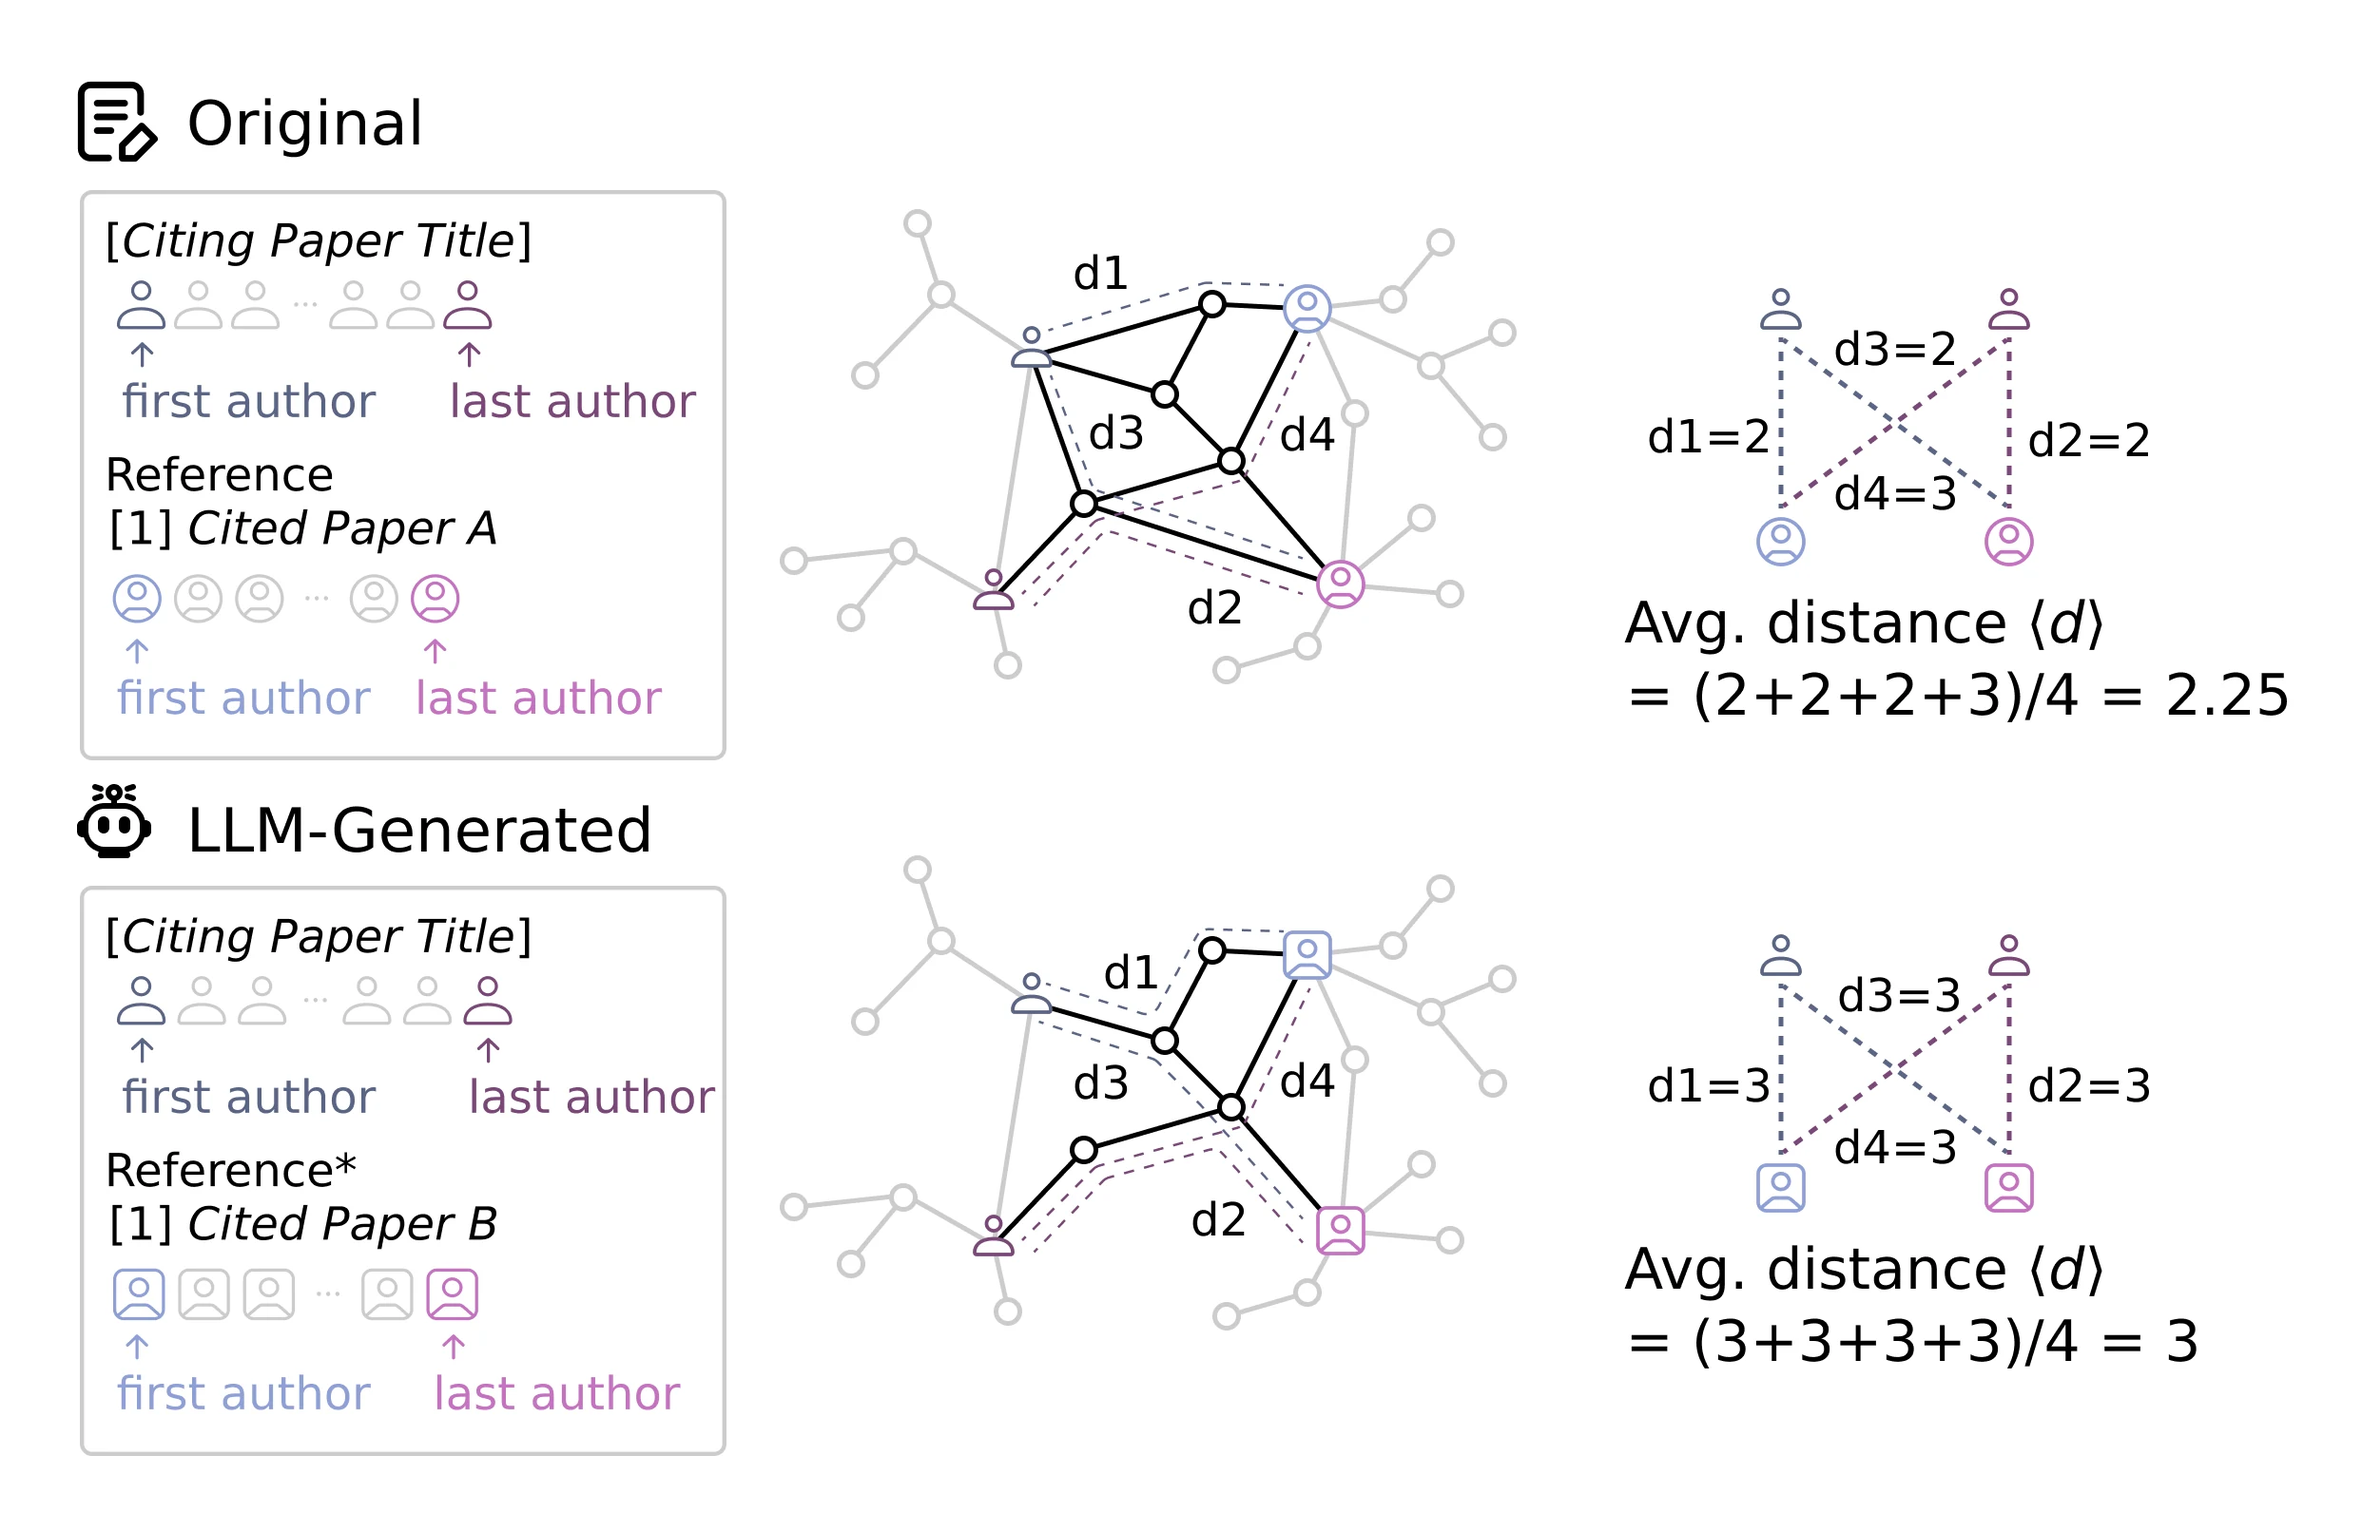
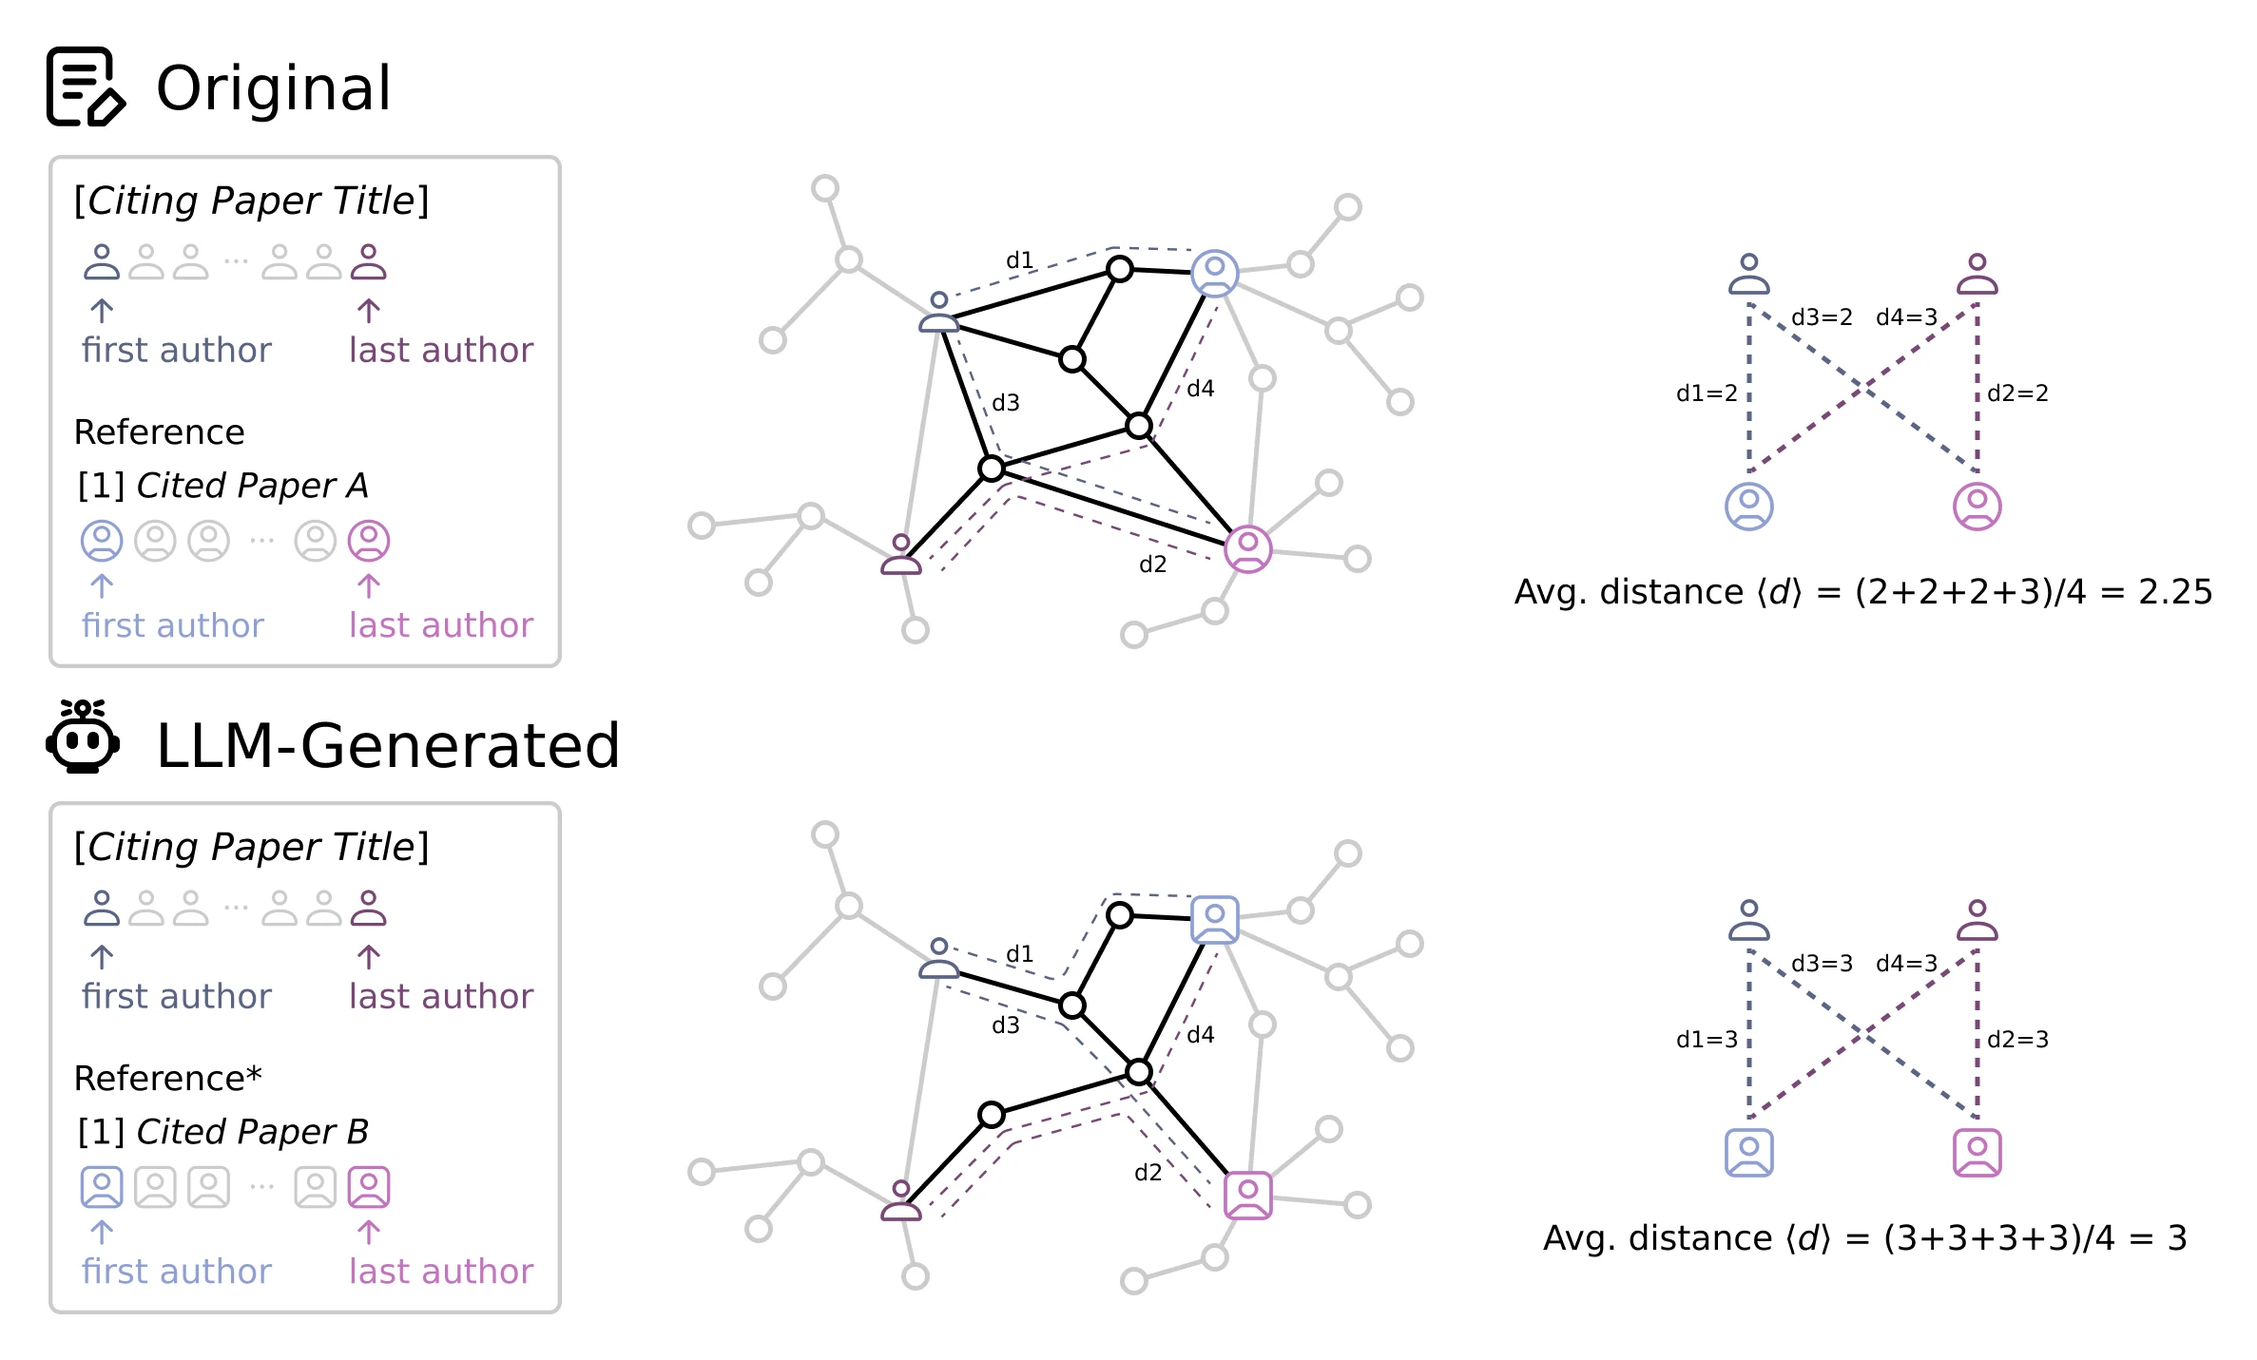
Trim the white off Figure 4a, and leave the math as characters
The export shipped with 85 to 173px of white on its four sides. The crop
finds the drawn content and keeps a uniform 48px of that white, so the
figure fills the column without sitting flush against it.

No math renderer in this stack: one dependency, `astro`, and no markdown
config or integrations. KaTeX would mean three packages, a config change and
a webfont payload for one expression in one caption, so `⟨d⟩` stays the
characters it already was. Italicising the `d` was tried and reverted:
`.prose em` steps a point down for product names, which would have made the
variable smaller than the words around it.

diff --git a/src/content/projects/citing-less-critically.md b/src/content/projects/citing-less-critically.md
@@ -234,8 +234,8 @@ constructed, not just reporting its result.
   <img
     src="/media/citing-less-critically/final-figure-4a.webp"
     alt="Two worked rows. In each, a citing paper and a cited paper are shown with their first and last authors, the four shortest paths between those author pairs are traced through the coauthorship network, and the four lengths are averaged. The original row averages 2.25; the LLM-generated row averages 3."
-    width="2484"
-    height="1612"
+    width="2374"
+    height="1431"
     loading="lazy"
     decoding="async"
   />
